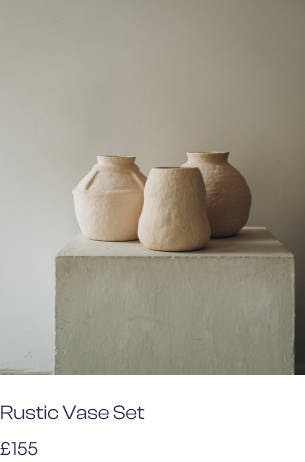
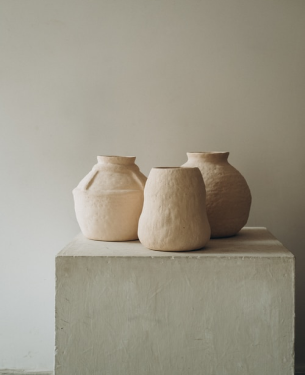
update

diff --git a/e-commerce-website/src/components/Hero.tsx b/e-commerce-website/src/components/Hero.tsx
@@ -1,83 +1,85 @@
+import React from 'react'
+import { Button } from './ui/button'
+import Image from 'next/image'
+import chair from '../../public/chair.png'
+const HeroSection = () => {
+  return (
+    <div className=' container max-w-7xl mx-auto justify-between items-center flex flex-cols-1'>
+       
+            
+                <div className='bg-[#2A254B]  w-[1280px] h-[584px] mt-6 grid sm:grid-cols-1'>
+                   <div className=' flex items-center justify-between'>
+                    <div  className='w-[400px] h-52 ml-20 mb-48 '>
+                   <h2 className='text-white font-normal text-sm md:text-xl lg:text-3xl '>The furniture brand for the future, with timeless designs</h2>
+                 <div className='w-[550px] '>  <Button className=' bg-transparent  text-white bg-gray-400 mt-10 p-6'>View collection</Button>
+                   <p className=' text-white pt-48 text-sm md:text-xl lg:text-xl'>A new era in eco friendly furniture with Avelon, the French luxury retail brand
+with nice fonts, tasteful colors and a beautiful way to display things digitally 
+using modern web technologies.</p>
+</div>
+                   </div>
+                   <div className='hidden md:flex'>
+                    <Image src={chair} alt='chair-image'  className='ml-18  bg-cover float-right'></Image>
+                   </div>
+                   </div>
+                    </div>
+            </div>
+        
+       
+   
+  )
+}
+
+export default HeroSection
+
+
+
+
 // import React from 'react'
 // import { Button } from './ui/button'
 // import Image from 'next/image'
 // import chair from '../../public/chair.png'
+
 // const HeroSection = () => {
 //   return (
-//     <div className=' container max-w-7xl mx-auto justify-between items-center flex flex-cols-1'>
-       
-            
-//                 <div className='bg-[#2A254B]  w-[1280px] h-[584px] mt-6 grid sm:grid-cols-1'>
-//                    <div className=' flex items-center justify-between'>
-//                     <div  className='w-[400px] h-52 ml-20 mb-48 '>
-//                    <h2 className='text-white font-normal text-sm md:text-xl lg:text-3xl '>The furniture brand for the future, with timeless designs</h2>
-//                  <div className='w-[550px] '>  <Button className=' bg-transparent  text-white bg-gray-400 mt-10 p-6'>View collection</Button>
-//                    <p className=' text-white pt-48 text-sm md:text-xl lg:text-xl'>A new era in eco friendly furniture with Avelon, the French luxury retail brand
-// with nice fonts, tasteful colors and a beautiful way to display things digitally 
-// using modern web technologies.</p>
-// </div>
-//                    </div>
-//                    <div className='hidden md:flex'>
-//                     <Image src={chair} alt='chair-image'  className='ml-18  bg-cover float-right'></Image>
-//                    </div>
-//                    </div>
-//                     </div>
+//     <div className="container max-w-7xl mx-auto flex flex-col justify-between items-center">
+//       <div className="bg-[#2A254B] w-full h-auto mt-10 p-6 grid sm:grid-cols-1 md:h-[584px]">
+//         {/* Content Section */}
+//         <div className="flex flex-col md:flex-row items-start md:items-center justify-between">
+//           <div className="w-full md:w-[400px] ml-4 md:ml-20 mb-4 md:mb-48">
+//             {/* Headline */}
+//             <h2 className="text-white font-normal text-lg md:text-2xl lg:text-3xl">
+//               The furniture brand for the future, with timeless designs
+//             </h2>
+//   {/* Button */}
+//   <div className="mt-6">
+//               <Button className="bg-transparent text-white bg-gray-400 px-4 py-2">
+//                 View collection
+//               </Button>
 //             </div>
-        
-       
-   
+//             {/* Description */}
+//             <p className="text-white text-sm md:text-lg mt-40">
+//               A new era in eco-friendly furniture with Avelon, the French luxury retail brand.
+//               With nice fonts, tasteful colors, and a beautiful way to display things digitally 
+//               using modern web technologies.
+//             </p>
+
+          
+//           </div>
+
+//           {/* Image Section */}
+//           <div className="hidden md:flex ">
+//             <Image
+//               src={chair}
+//               alt="chair-image"
+//               className=" w-[520px] h-[584px] ml-10 "
+//             />
+//           </div>
+//         </div>
+//       </div>
+//     </div>
 //   )
 // }
 
 // export default HeroSection
 
-
-
-
-import React from 'react'
-import { Button } from './ui/button'
-import Image from 'next/image'
-import chair from '../../public/chair.png'
-
-const HeroSection = () => {
-  return (
-    <div className="container max-w-7xl mx-auto flex flex-col justify-between items-center">
-      <div className="bg-[#2A254B] w-full h-auto mt-6 p-6 grid sm:grid-cols-1 md:h-[584px]">
-        {/* Content Section */}
-        <div className="flex flex-col md:flex-row items-start md:items-center justify-between">
-          <div className="w-full md:w-[400px] ml-4 md:ml-20 mb-4 md:mb-48">
-            {/* Headline */}
-            <h2 className="text-white font-normal text-lg md:text-2xl lg:text-3xl">
-              The furniture brand for the future, with timeless designs
-            </h2>
-  {/* Button */}
-  <div className="mt-6">
-              <Button className="bg-transparent text-white bg-gray-400 px-4 py-2">
-                View collection
-              </Button>
-            </div>
-            {/* Description */}
-            <p className="text-white text-sm md:text-lg mt-40">
-              A new era in eco-friendly furniture with Avelon, the French luxury retail brand.
-              With nice fonts, tasteful colors, and a beautiful way to display things digitally using modern web technologies.
-            </p>
-
-          
-          </div>
-
-          {/* Image Section */}
-          <div className="hidden md:flex">
-            <Image
-              src={chair}
-              alt="chair-image"
-              className="ml-18 object-cover float-right"
-            />
-          </div>
-        </div>
-      </div>
-    </div>
-  )
-}
-
-export default HeroSection
 

diff --git a/e-commerce-website/src/components/Header-Section.tsx b/e-commerce-website/src/components/Header-Section.tsx
@@ -1,108 +1,3 @@
-// import React from 'react'
-// import { FiSearch ,FiShoppingCart, FiUser ,FiMenu} from 'react-icons/fi'
-// import Link from 'next/link'
-// import { Sheet  ,SheetContent ,SheetTrigger ,SheetHeader, SheetTitle  } from '@/components/ui/sheet';
-// const HeaderSection = () => {
-//   return (
-//   <>
-//      <div className="bg-white md:flex items-center justify-between px-6 py-2 border-b-2 border-gray-300 ">
-//      <FiSearch  size={20} className='hover:text-blue-500 cursor-pointer hidden lg:flex mt-4'/>
-//         <div className="text-black text-center flex-1 text-sm font-normal mx-auto p-4">
-           
-//           <h3 className="text-2xl pl-4 md:pl-0 text-left md:text-center">
-//           Avion
-//           </h3>
-//           </div>
-     
-//       <FiShoppingCart size={20} className="hover:text-blue-500 cursor-pointer hidden md:flex " />
-//      <div className='border border-black rounded-full ml-2 hidden md:flex'> <FiUser size={20} className=" hover:text-blue-500 cursor-pointer border-1"/>
-//      </div>
-// </div>
-// <nav className="w-full  p-4">
-//         <div className="flex items-center justify-between px-6 py-4 mx-auto max-w-7xl">
-//           {/* Logo */}
-        
-//                 {/* Navbar Links (Hidden on Small Screens) */}
-//                 <div className="hidden md:flex gap-12 mx-auto">
-//               <Link href="/" className="text-gray-500 text-sm font-normal hover:text-black-500">
-//                 Plant pots
-//               </Link>
-//               <Link href="/contact" className="text-gray-500 text-sm font-normal hover:text-black-500">
-//                 Ceramics
-//               </Link>
-            
-//               <Link href="/about" className="text-gray-500 text-sm font-normal hover:text-black-500">
-//                 Tables
-//               </Link>
-            
-//               <Link href="/signup" className="text-gray-500 text-sm font-normal hover:text-black-500">
-//                 Chairs
-//               </Link>
-
-//               <Link href="/signup" className="text-gray-500 text-sm font-normal hover:text-black-500">
-//                 Crockery
-//               </Link>
-
-//               <Link href="/signup" className="text-gray-500 text-sm font-normal hover:text-black-500">
-//                 Tableware
-//               </Link>
-
-//               <Link href="/signup" className="text-gray-500 text-sm font-normal hover:text-black-500">
-//                 Cutlery
-//               </Link>
-//               </div>
-//               <Sheet>
-//             <SheetTrigger className='flex  flex-row md:hidden'>
-//       <FiSearch className="text-gray-500" size={18} />
-//       <FiMenu size={20} />
-    
-//   </SheetTrigger>
-//      <SheetContent>
-//             <SheetHeader className='text-left'>
-//             <SheetTitle className='text-white '>Avion</SheetTitle>
-//             </SheetHeader>
-//               <div className='flex flex-col gap-6 mt-6'>
-//               <Link href="/" className="text-gray-500 text-sm font-normal hover:text-black-500">
-//                 Plant pots
-//               </Link>
-//               <Link href="/contact" className="text-gray-500 text-sm font-normal hover:text-black-500">
-//                 Ceramics
-//               </Link>
-            
-//               <Link href="/about" className="text-gray-500 text-sm font-normal hover:text-black-500">
-//                 Tables
-//               </Link>
-            
-//               <Link href="/signup" className="text-gray-500 text-sm font-normal hover:text-black-500">
-//                 Chairs
-//               </Link>
-
-//               <Link href="/signup" className="text-gray-500 text-sm font-normal hover:text-black-500">
-//                 Crockery
-//               </Link>
-
-//               <Link href="/signup" className="text-gray-500 text-sm font-normal hover:text-black-500">
-//                 Tableware
-//               </Link>
-
-//               <Link href="/signup" className="text-gray-500 text-sm font-normal hover:text-black-500">
-//                 Cutlery
-//               </Link>
-              
-//            </div>
-//            </SheetContent>
-//            </Sheet>
-//               </div>
-//               </nav>
-     
-//       </>
-//   )
-
-// }
-
-// export default HeaderSection
-
-
 import React from 'react'
 import { FiSearch, FiShoppingCart, FiUser, FiMenu } from 'react-icons/fi'
 import Link from 'next/link'
@@ -174,7 +69,7 @@ const HeaderSection = () => {
       </div>
 
       {/* Navbar Links for Desktop */}
-      <nav className="hidden md:flex justify-center bg-white py-4 border-b border-gray-300">
+      <nav className="hidden md:flex justify-center bg-white py-4 ">
         <div className="flex space-x-8">
           <Link href="/" className="text-gray-500 hover:text-black text-sm">
             Plant Pots

diff --git a/e-commerce-website/src/components/join-club.tsx b/e-commerce-website/src/components/join-club.tsx
@@ -1,13 +1,33 @@
 import React from 'react'
+import { Input } from './ui/input'
+import { Button } from './ui/button'
 
 const JoinClub = () => {
   return (
-    <div>
-        <div>
-            
-        </div>
-    </div>
+    
+        <div className=' w-[1440px] h-[481px] mx-auto   mt-10 container max-w-full  justify-between items-center
+         border-gray-100 border-4 border-t-[52px]  border-l-[93px]  border-b-[52px]  border-r-[93px] md-flex  '>
+           <div className='w-[1273px] h-[364px] m-8'>
+           <div className='mx-auto items-center justify-between w-[571px] h-[114px]  gap-[16px] mt-14'>
+                <h1 className='font-thin text-[#2A254B] text-3xl text-center'>Join the club and get the benefits</h1>
+                <p className='text-center text-xl font-thin'>Sign up for our newsletter and receive exclusive offers on new ranges, sales, pop up stores and more</p>
+                <div className='mt-20  flex  mx-auto w-[470px] h-[56px] '>
+                <Input type='email' placeholder='your@email.com' className='text-gray-400  w-[354px] h-[56px] bg-gray-200'/>
+                <Button className='bg-[#2A254B] text-white font-thin w-[118px] h-[56px]'>Sign Up</Button>
+              </div>
+              </div>
+             
+              <div>
+
+              </div>
+           </div>
+             
+            </div>
+       
+   
   )
 }
 
 export default JoinClub
+
+

diff --git a/e-commerce-website/src/components/NewCramics.tsx b/e-commerce-website/src/components/NewCramics.tsx
@@ -2,7 +2,7 @@ import React from 'react'
 import { Card, CardContent, CardDescription,CardHeader, CardTitle,} from "@/components/ui/card"
 import Image from 'next/image'
 import chair from '../../public/chair.png'
-import vaseset from '../../public/vaseset.png'
+import vaseset from '../../public/VaseSet.png'
 import silkyvase from '../../public/silkyvase.png'
 import lucylamp from '../../public/lucylamp.png'
 import { Button } from './ui/button'
@@ -29,10 +29,10 @@ const NewCramics = () => {
 <Card className="h-full w-full max-w-sm border-none">
 <CardHeader >
     <div className="aspect-[3/4] relative overflow-hidden rounded-t-lg">
-      <Image src={vaseset} alt='Chair' className="object-cover" fill/>
+      <Image src={vaseset} alt='VaseSet' className="object-cover" fill/>
       </div>
       </CardHeader>
-<CardContent className="p-6">
+<CardContent className="p-6 ">
     <CardTitle className="line-clamp-1 font-thin">Rustic Vase Set</CardTitle>
     <CardDescription>£155</CardDescription>
 </CardContent>

diff --git a/e-commerce-website/src/components/ui/input.tsx b/e-commerce-website/src/components/ui/input.tsx
@@ -1,0 +1,22 @@
+import * as React from "react"
+
+import { cn } from "@/lib/utils"
+
+const Input = React.forwardRef<HTMLInputElement, React.ComponentProps<"input">>(
+  ({ className, type, ...props }, ref) => {
+    return (
+      <input
+        type={type}
+        className={cn(
+          "flex h-9 w-full rounded-md border border-input bg-transparent px-3 py-1 text-base shadow-sm transition-colors file:border-0 file:bg-transparent file:text-sm file:font-medium file:text-foreground placeholder:text-muted-foreground focus-visible:outline-none focus-visible:ring-1 focus-visible:ring-ring disabled:cursor-not-allowed disabled:opacity-50 md:text-sm",
+          className
+        )}
+        ref={ref}
+        {...props}
+      />
+    )
+  }
+)
+Input.displayName = "Input"
+
+export { Input }

diff --git a/e-commerce-website/src/app/page.tsx b/e-commerce-website/src/app/page.tsx
@@ -1,6 +1,7 @@
 import Brand from '@/components/brand'
 import Footer from '@/components/Footer'
 import HeroSection from '@/components/Hero'
+import JoinClub from '@/components/join-club'
 import NewCramics from '@/components/NewCramics'
 import PopularProducts from '@/components/Popular-Products'
 import React from 'react'
@@ -12,6 +13,7 @@ const Home = () => {
     <Brand/>
     <NewCramics/>
     <PopularProducts/>
+    <JoinClub/>
     <Footer/>
     <div></div>
     </>
